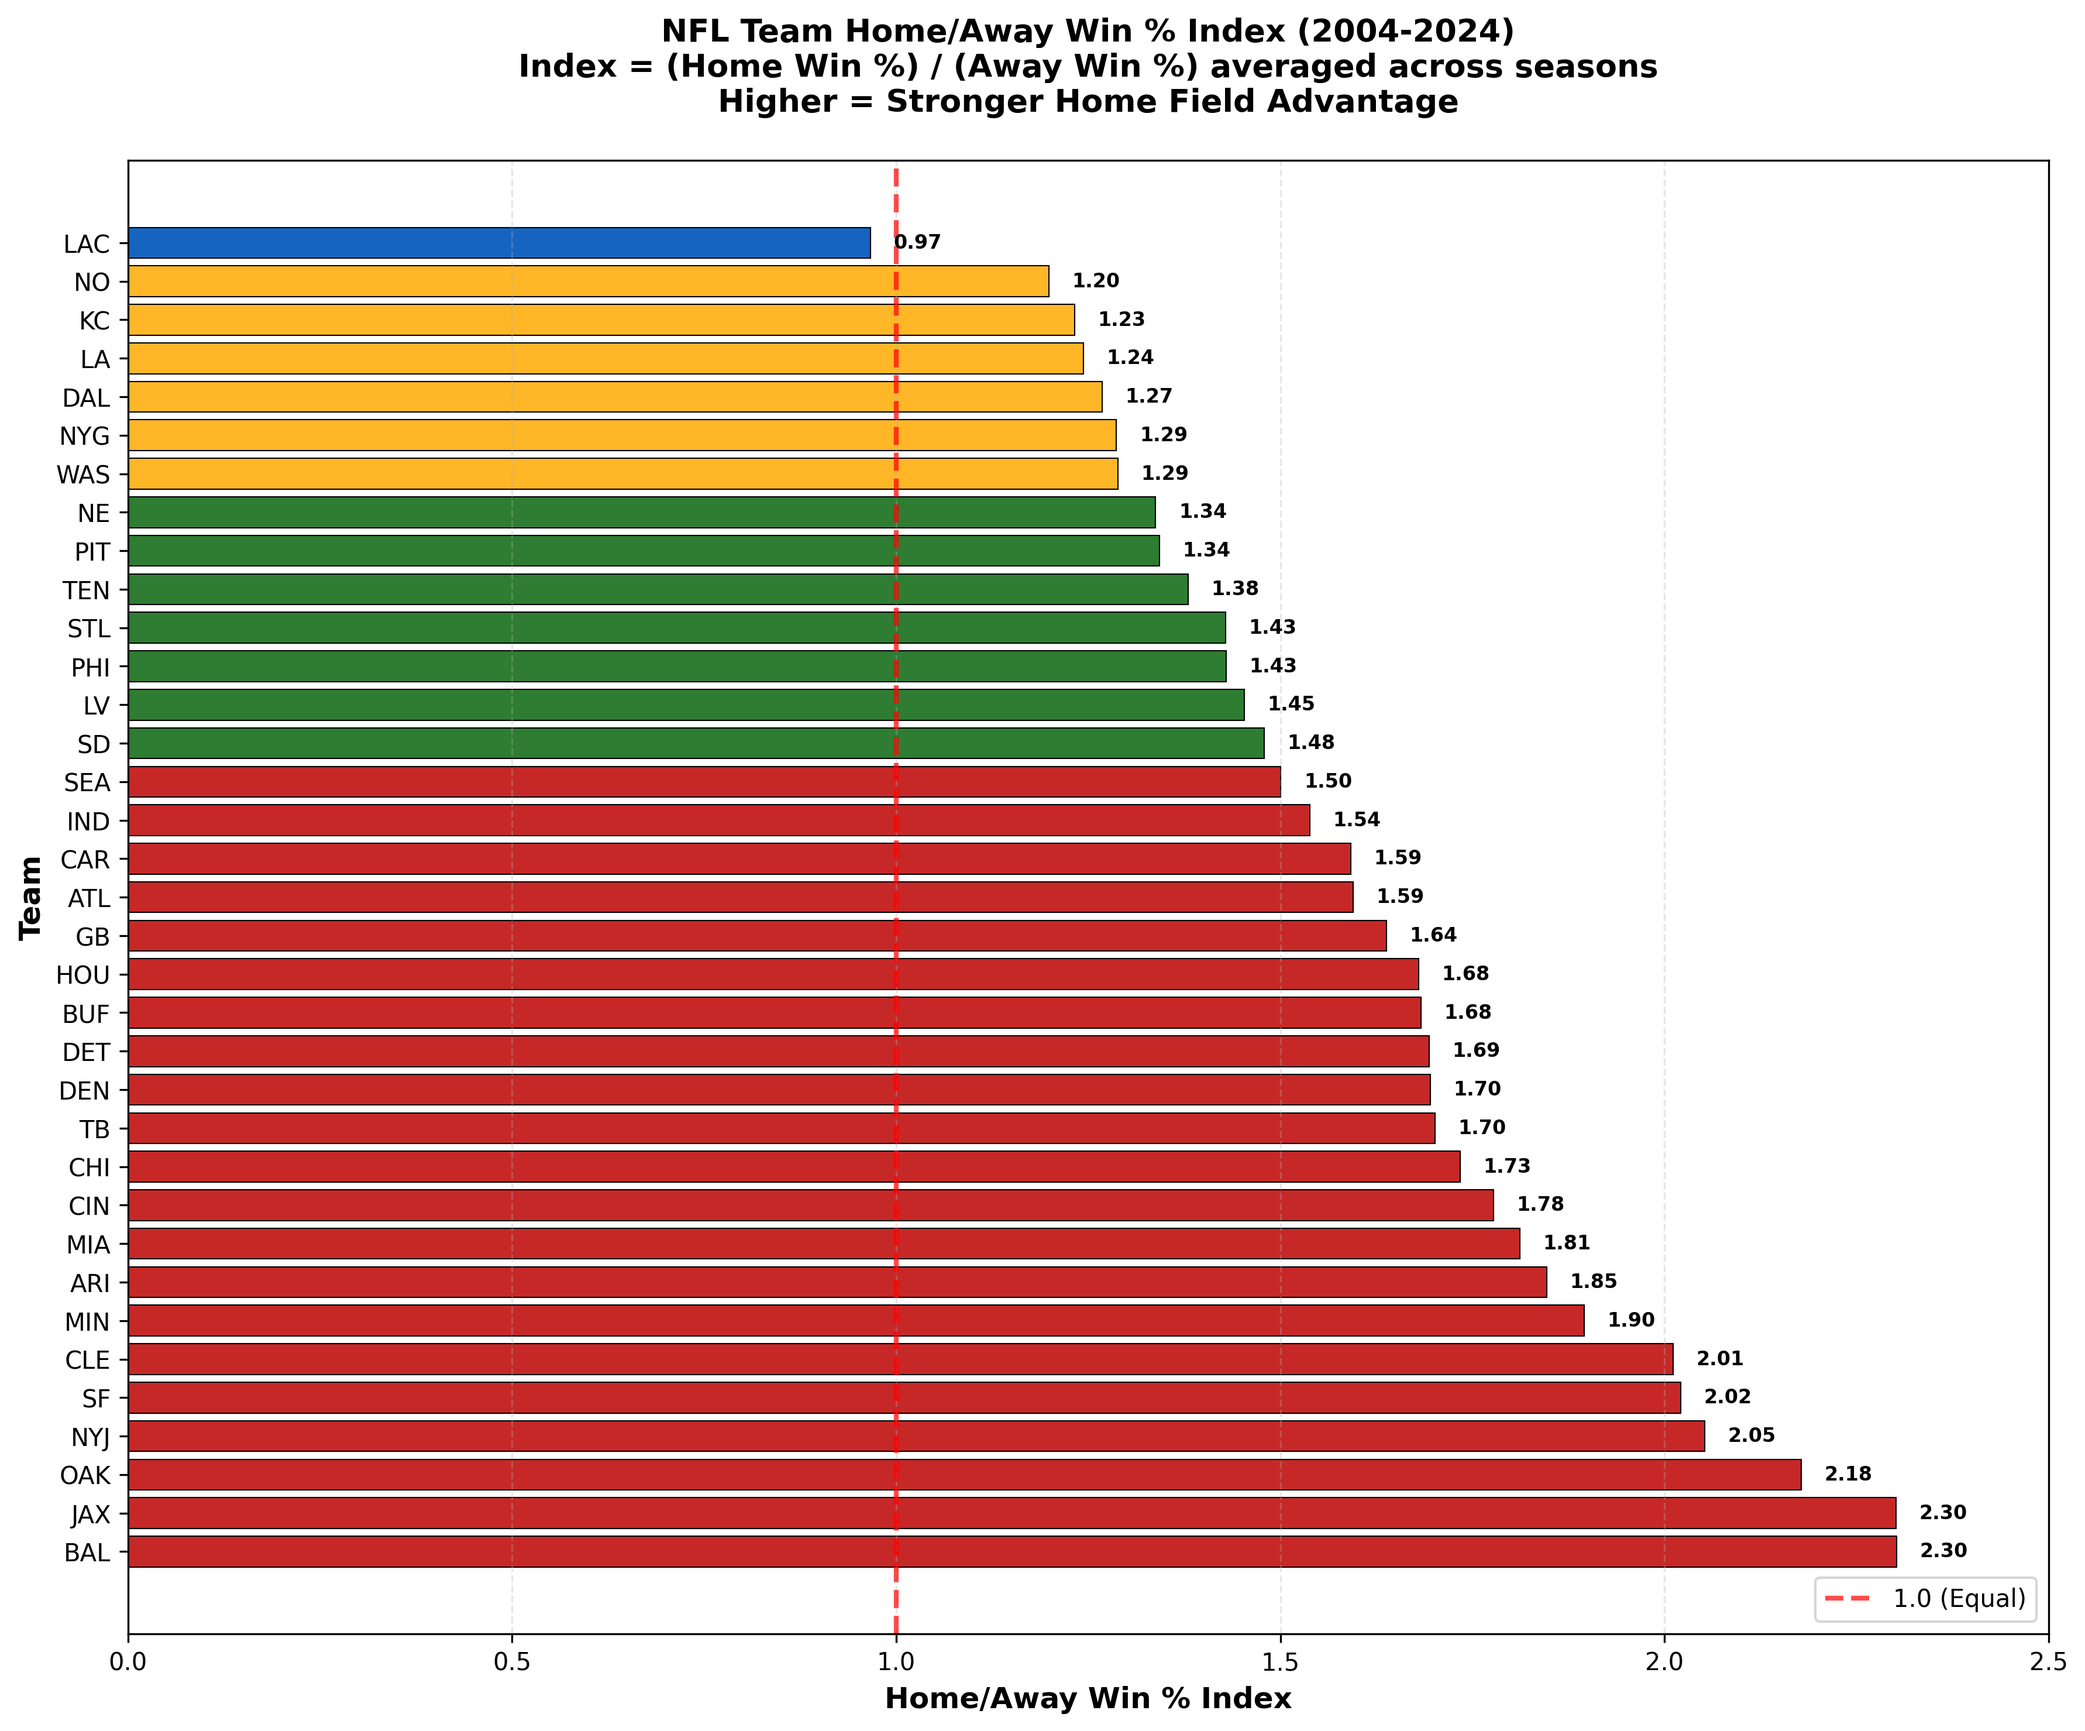
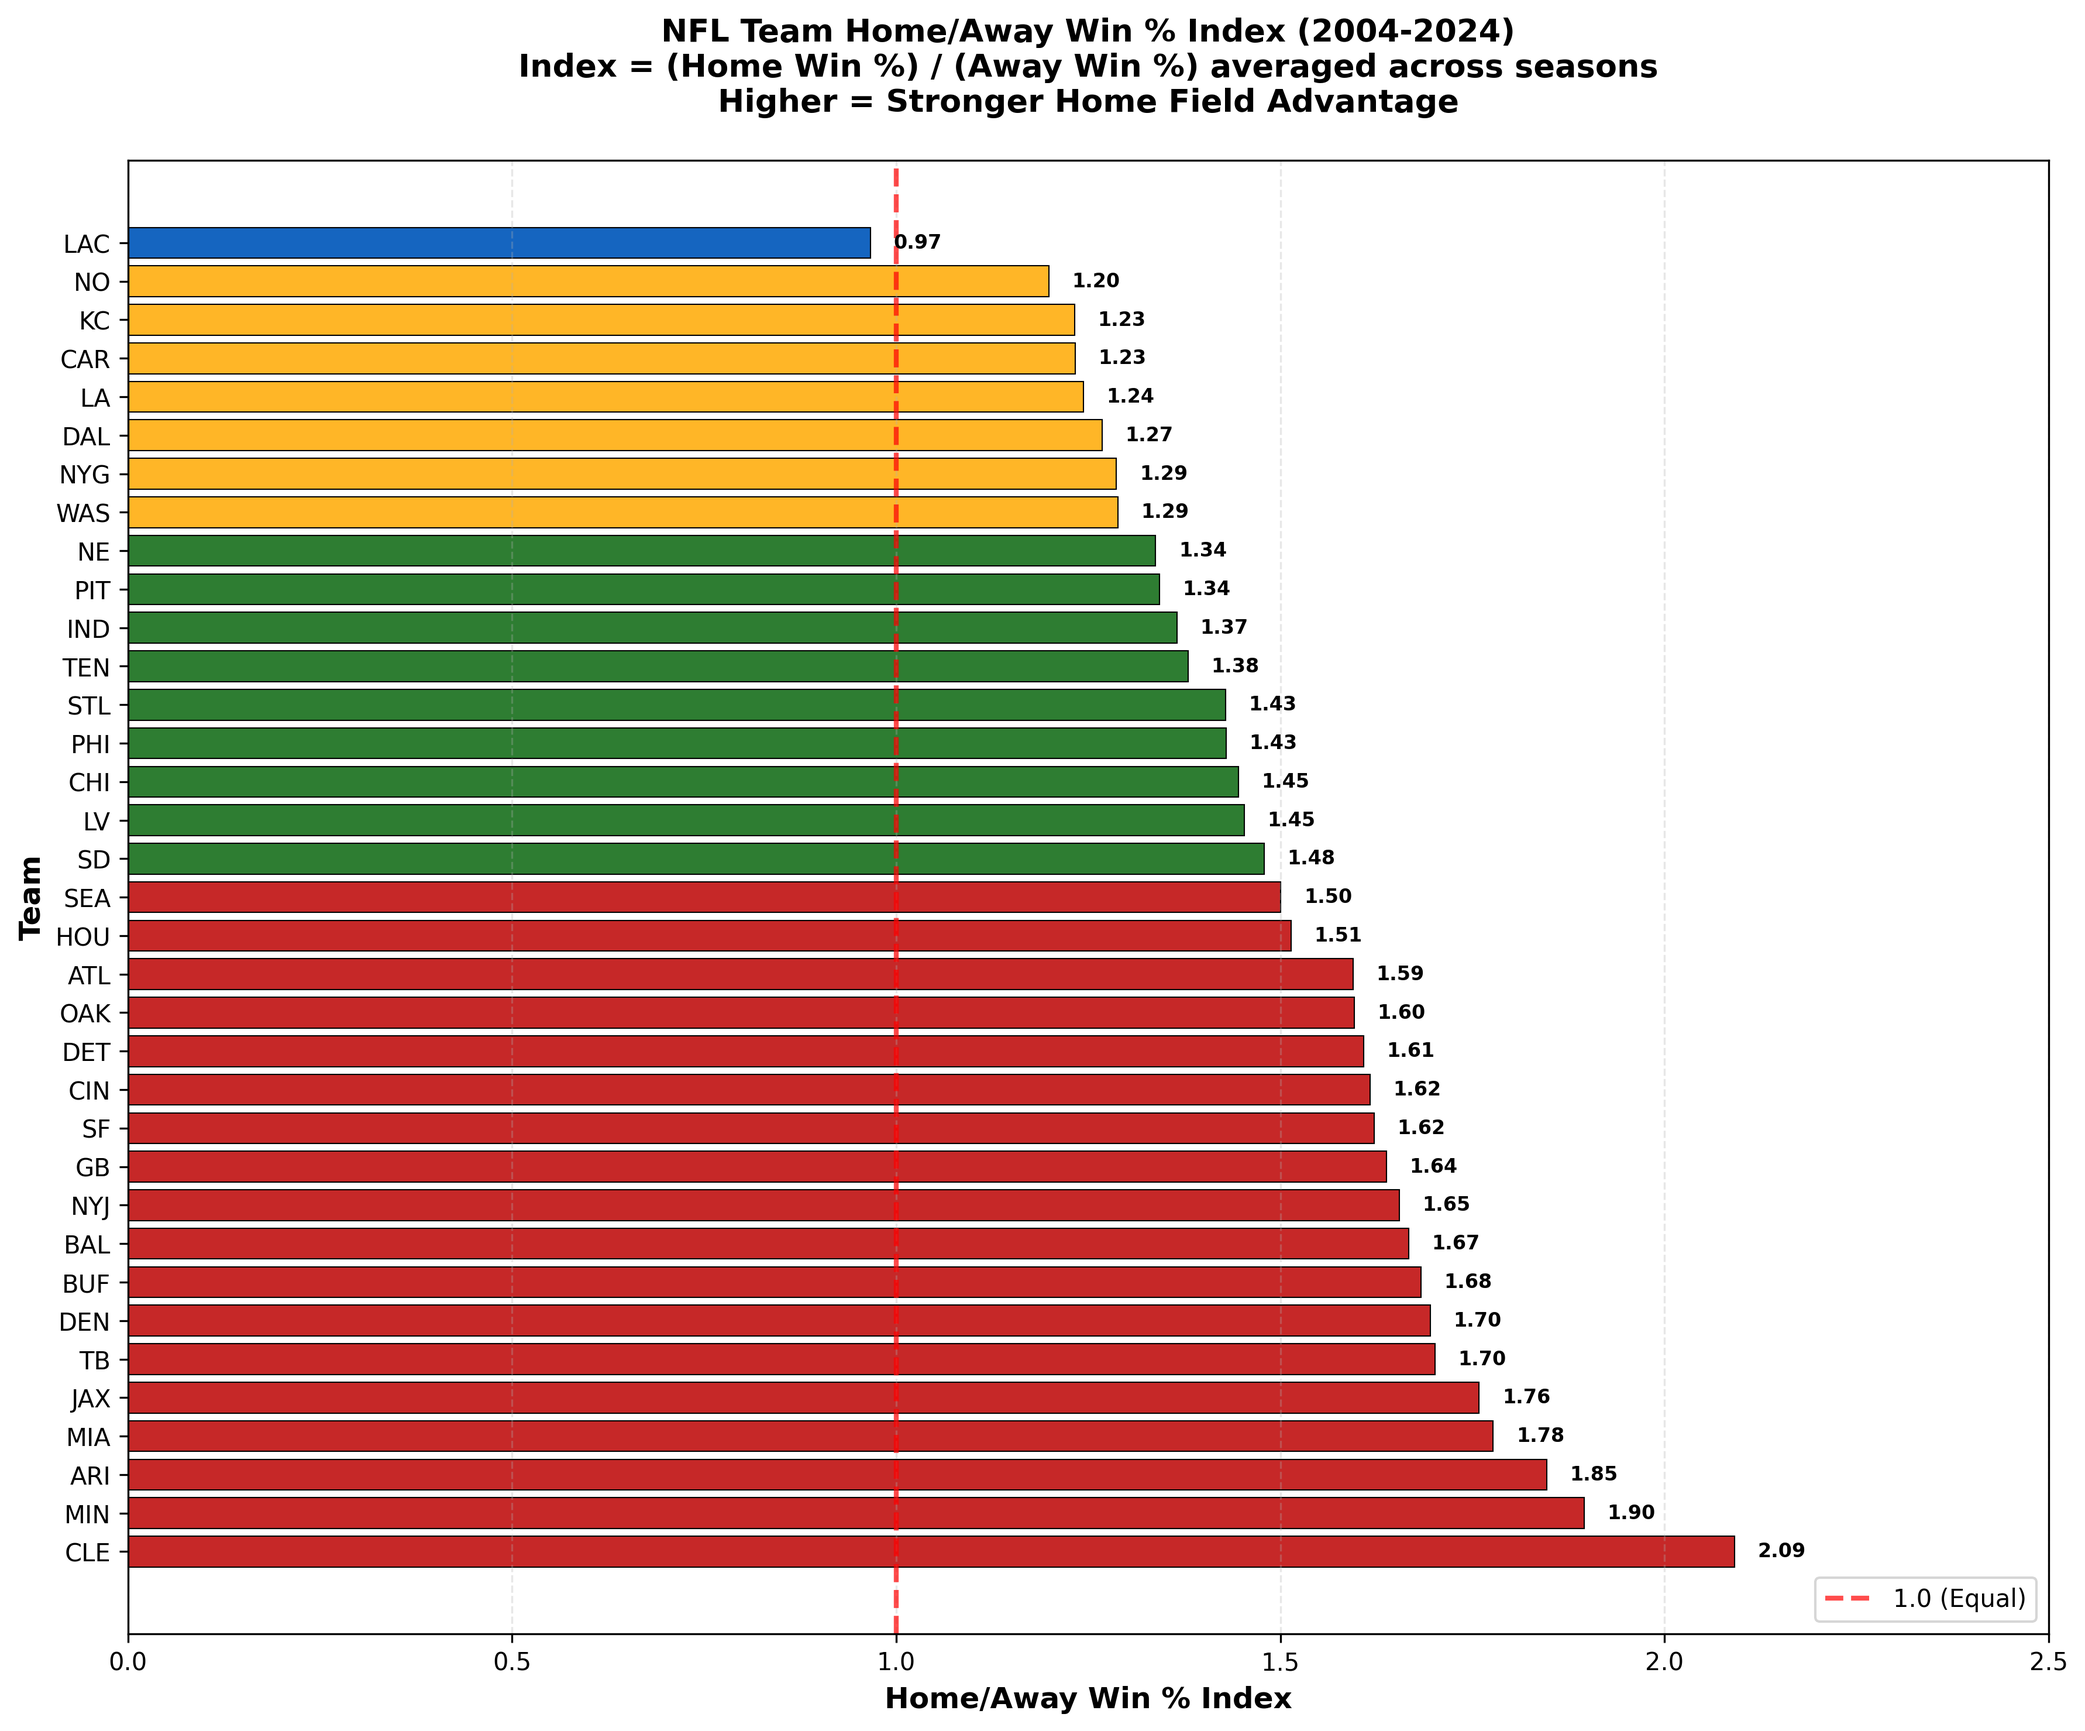
Fix index calculation to average year-by-year ratios without outlier removal

Changed region(s): [[0.0311, 0.1866, 0.9343, 0.9331], [0.0311, 0.7776, 0.0623, 0.902], [0.0311, 0.622, 0.0623, 0.7465]]

diff --git a/create_home_away_index_chart.py b/create_home_away_index_chart.py
@@ -18,13 +18,16 @@ df['home_win_pct'] = (df['home_wins'] + 0.5 * df['home_ties']) / df['home_games'
 df['away_win_pct'] = (df['away_wins'] + 0.5 * df['away_ties']) / df['away_games']
 
 # Calculate the home/away index for each team-season
-# For seasons where away_win_pct is 0, use a minimum value of 0.05 to avoid extreme outliers
-df['away_win_pct_adjusted'] = df['away_win_pct'].clip(lower=0.05)
-df['home_away_index'] = df['home_win_pct'] / df['away_win_pct_adjusted']
+# For seasons where away_win_pct is 0, the index is undefined (division by zero)
+# We'll exclude those seasons from the average calculation
+df['home_away_index'] = df.apply(
+    lambda row: row['home_win_pct'] / row['away_win_pct'] if row['away_win_pct'] > 0 else None,
+    axis=1
+)
 
-# Calculate average index for each team across all seasons
+# Calculate average index for each team across all seasons (excluding None values)
 team_index = df.groupby('team').agg({
-    'home_away_index': 'mean',
+    'home_away_index': lambda x: x.dropna().mean(),
     'home_win_pct': 'mean',
     'away_win_pct': 'mean'
 }).reset_index()
